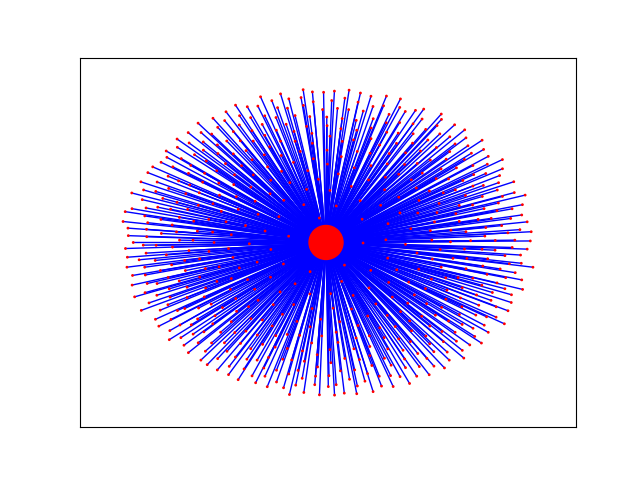
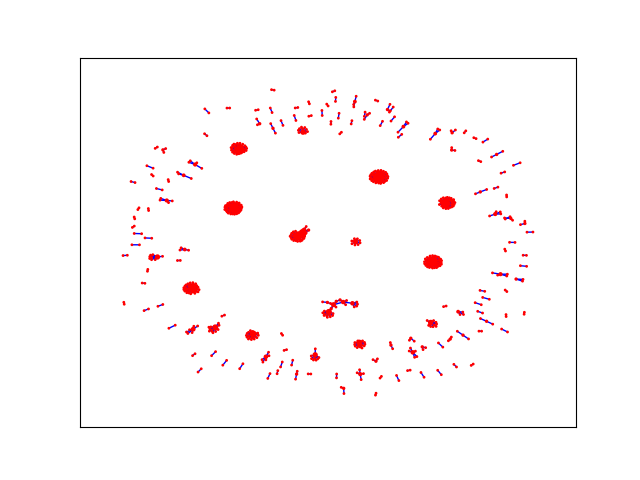
change network anlysis of nazha to right

Changed region(s): [[0.1875, 0.1875, 0.8438, 0.8125]]

diff --git a/a14498movie_release/i1network_analysis.py b/a14498movie_release/i1network_analysis.py
@@ -3,6 +3,8 @@ import matplotlib.pyplot as plt
 import networkx as nx
 import numpy
 import numpy as np
+import json
+from ast import literal_eval
 
 # 自行替换
 file_path = "i1SGScrapy/downloads/Nezha.csv"
@@ -36,8 +38,20 @@ with open(file_path, "r") as f:
     for position, line in enumerate(f):
         items = line.strip().split("\t")
         uid = items[6]
-        rtuid = items[-6]
-        G.add_edge(uid, rtuid, time=ranks[position])
+        obj = items[-1]
+
+        print('obj=', obj, type(obj))
+        if obj is not None:
+            obj = literal_eval(obj)
+            print('obj====', obj, type(obj))
+            if len(obj) >= 1:
+                if not isinstance(obj[0], str):
+                    rtuid = obj[0]['id']
+                    print('#'*20, rtuid)
+            # rtuid = items[-6]
+                    print('uid=', uid, 'rtuid=',rtuid)
+                    if rtuid is not None:
+                        G.add_edge(uid, rtuid, time=ranks[position])
 edges, colors = zip(*nx.get_edge_attributes(G, "time").items())
 
 print("-" * 10)
